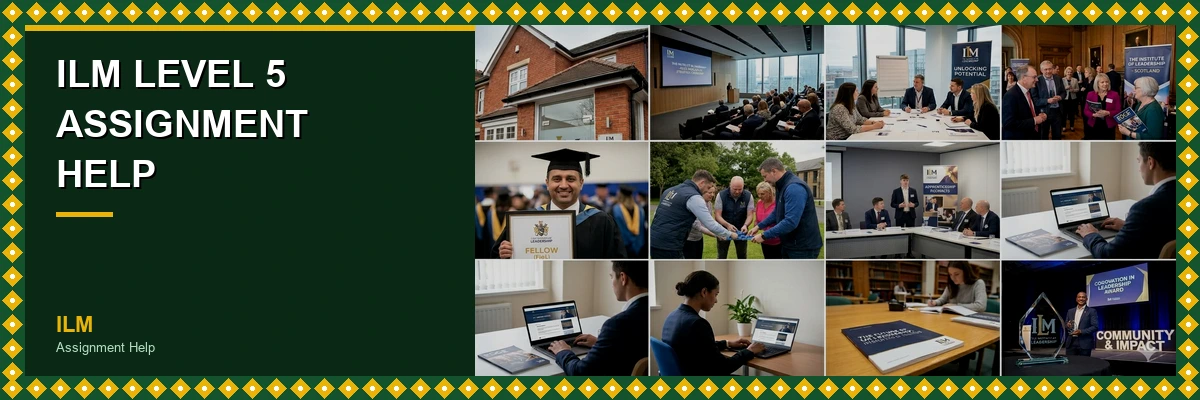
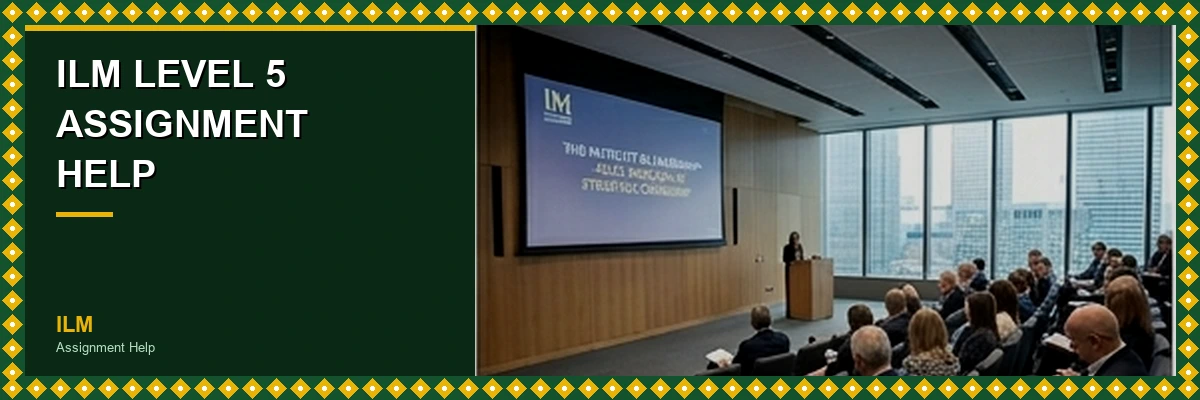
refactor(headers): regenerate 5 page headers using individual grid cells
Each header now uses a single, topic-matched cell from the ILM input
collage rather than a horizontal slice of the full image:
  hub        → r0c2 group meeting with Unlocking Potential banner
  level-3    → r1c1 ILM branded outdoor team activity
  level-5    → r0c1 large formal conference/presentation room
  level-7    → r2c3 ILM Leadership Award ceremony
  coaching   → r2c2 library study with ILM book

diff --git a/generate_headers_photo.py b/generate_headers_photo.py
@@ -1,6 +1,23 @@
 """
 generate_headers_photo.py — ILM Assignment Help new-page header images
-Produces 1200x400 WebP headers using the ILM input photo collage as background.
+Produces 1200x400 WebP headers using individually selected cells from the
+ILM input photo grid (4 cols x 3 rows).  Each page gets one cell chosen
+for relevance to the page topic.
+
+Grid cell reference (row, col) — 0-indexed:
+  r0c0  ILM building exterior
+  r0c1  Large formal conference/presentation  → Level 5
+  r0c2  Group meeting, "Unlocking Potential"  → Hub
+  r0c3  ILM Scotland networking evening
+  r1c0  Graduate holding FELLOW certificate
+  r1c1  ILM outdoor team activity             → Level 3
+  r1c2  ILM Apprenticeship presentation
+  r1c3  Professional man on laptop
+  r2c0  Professional man on laptop (wide)
+  r2c1  Woman working on laptop at home desk
+  r2c2  Library study, ILM book               → Coaching & Mentoring
+  r2c3  Leadership Award ceremony             → Level 7
+
 Brand: deep forest green #14532D + gold #EAB308
 """
 
@@ -8,6 +25,10 @@ from PIL import Image, ImageDraw, ImageFont, ImageEnhance
 import os
 
 INPUT_PHOTO = r"C:\Users\jobmu\agentic-workflow\semantic-seo-workflow\client_data\New-sites\ilm-assignment-help\input image\Gemini_Generated_Image_rog8iwrog8iwrog8.png"
+
+# Grid layout of the input collage
+GRID_COLS = 4
+GRID_ROWS = 3
 
 CLIENT = {
     "brand":      (20,  83,  45),
@@ -18,33 +39,44 @@ CLIENT = {
     "output_dir": r"C:\Users\jobmu\my-second-projects\ilm-assignment-help\public",
 }
 
-# Five different horizontal crop offsets so each header shows a different
-# section of the collage (image is 1408px wide; crop window is 768px wide)
+# cell_row / cell_col select which grid cell to use as the photo.
+# crop_y_frac (0.0–1.0) shifts the vertical crop within the cell:
+#   0.0 = top-aligned, 0.5 = centred, 1.0 = bottom-aligned.
 PAGES = [
     {
-        "slug":    "header_ilm-assignment-help",
-        "title":   "ILM\nASSIGNMENT\nHELP",
-        "crop_x":  0,
+        "slug":       "header_ilm-assignment-help",
+        "title":      "ILM\nASSIGNMENT\nHELP",
+        "cell_row":   0,
+        "cell_col":   2,   # group meeting with "Unlocking Potential" banner
+        "crop_y_frac": 0.3,
     },
     {
-        "slug":    "header_ilm-level-3-assignment-help",
-        "title":   "ILM LEVEL 3\nASSIGNMENT\nHELP",
-        "crop_x":  160,
+        "slug":       "header_ilm-level-3-assignment-help",
+        "title":      "ILM LEVEL 3\nASSIGNMENT\nHELP",
+        "cell_row":   1,
+        "cell_col":   1,   # ILM branded outdoor team activity — team leaders
+        "crop_y_frac": 0.4,
     },
     {
-        "slug":    "header_ilm-level-5-assignment-help",
-        "title":   "ILM LEVEL 5\nASSIGNMENT\nHELP",
-        "crop_x":  320,
+        "slug":       "header_ilm-level-5-assignment-help",
+        "title":      "ILM LEVEL 5\nASSIGNMENT\nHELP",
+        "cell_row":   0,
+        "cell_col":   1,   # large formal conference / presentation room
+        "crop_y_frac": 0.3,
     },
     {
-        "slug":    "header_ilm-level-7-assignment-help",
-        "title":   "ILM LEVEL 7\nASSIGNMENT\nHELP",
-        "crop_x":  480,
+        "slug":       "header_ilm-level-7-assignment-help",
+        "title":      "ILM LEVEL 7\nASSIGNMENT\nHELP",
+        "cell_row":   2,
+        "cell_col":   3,   # ILM Leadership Award ceremony — senior leader on stage
+        "crop_y_frac": 0.2,
     },
     {
-        "slug":    "header_ilm-coaching-mentoring-assignment-help",
-        "title":   "ILM COACHING\n& MENTORING\nASSIGNMENT HELP",
-        "crop_x":  640,
+        "slug":       "header_ilm-coaching-mentoring-assignment-help",
+        "title":      "ILM COACHING\n& MENTORING\nASSIGNMENT HELP",
+        "cell_row":   2,
+        "cell_col":   2,   # library study scene with ILM book
+        "crop_y_frac": 0.4,
     },
 ]
 
@@ -102,22 +134,49 @@ def panel_gradient(draw, px, py, pw, ph):
         draw.rectangle([(x, py), (x + 1, py + ph)], fill=(10, 40, 20, alpha))
 
 
-def place_photo(canvas, photo, crop_x, dest_x, dest_y, dest_w, dest_h):
-    """Crop a dest_w:dest_h section from photo at crop_x, paste onto canvas."""
+def extract_cell(photo, grid_cols, grid_rows, cell_col, cell_row):
+    """Return a single grid cell from the collage image."""
     pw, ph = photo.size
-    # Window in the source image that matches the dest aspect ratio
-    win_w = int(ph * dest_w / dest_h)
-    win_w = min(win_w, pw)
-    crop_x = min(crop_x, pw - win_w)
-    section = photo.crop((crop_x, 0, crop_x + win_w, ph))
-    section = section.resize((dest_w, dest_h), Image.LANCZOS)
+    cw = pw // grid_cols
+    ch = ph // grid_rows
+    x1 = cell_col * cw
+    y1 = cell_row * ch
+    return photo.crop((x1, y1, x1 + cw, y1 + ch))
+
+
+def place_cell(canvas, cell, crop_y_frac, dest_x, dest_y, dest_w, dest_h):
+    """
+    Scale the cell to fill dest_w (panel width), then crop vertically.
+    crop_y_frac controls which part of the cell is kept:
+      0.0 = top, 0.5 = centre, 1.0 = bottom.
+    """
+    cw, ch = cell.size
+    # Scale so the cell fills the destination width
+    scale = dest_w / cw
+    scaled_w = dest_w
+    scaled_h = int(ch * scale)
+
+    if scaled_h < dest_h:
+        # Cell too short even at full width — scale by height instead
+        scale = dest_h / ch
+        scaled_w = int(cw * scale)
+        scaled_h = dest_h
+
+    section = cell.resize((scaled_w, scaled_h), Image.LANCZOS)
+
+    # Vertical crop
+    excess_h = scaled_h - dest_h
+    y_off = int(excess_h * crop_y_frac)
+    section = section.crop((0, y_off, dest_w, y_off + dest_h))
+
     section = ImageEnhance.Brightness(section).enhance(0.82)
     section = ImageEnhance.Contrast(section).enhance(1.08)
-    # Convert RGBA to RGB so paste works cleanly
+
     if section.mode == "RGBA":
         bg = Image.new("RGB", section.size, (14, 58, 30))
         bg.paste(section, mask=section.split()[3])
         section = bg
+
     canvas.paste(section, (dest_x, dest_y))
 
 
@@ -133,11 +192,14 @@ def generate(photo, page, client):
 
     canvas = Image.new("RGB", (W, H), brand)
 
-    # Photo fills the right panel area
+    # Extract the selected grid cell and place it in the right panel
+    cell = extract_cell(photo, GRID_COLS, GRID_ROWS,
+                        page["cell_col"], page["cell_row"])
     photo_x = inner_x + PANEL_W
     photo_w = inner_w - PANEL_W
     photo_h = inner_h
-    place_photo(canvas, photo, page["crop_x"], photo_x, inner_y, photo_w, photo_h)
+    place_cell(canvas, cell, page.get("crop_y_frac", 0.3),
+               photo_x, inner_y, photo_w, photo_h)
 
     # Dark text panel (left side)
     draw = ImageDraw.Draw(canvas, "RGBA")
@@ -186,11 +248,13 @@ def generate(photo, page, client):
 
 
 if __name__ == "__main__":
-    print("Loading input photo...")
+    print("Loading input collage...")
     photo = Image.open(INPUT_PHOTO).convert("RGBA")
-    print(f"  Size: {photo.size}")
+    cw, ch = photo.size[0] // GRID_COLS, photo.size[1] // GRID_ROWS
+    print(f"  Collage: {photo.size}  |  Cell size: {cw}x{ch}")
 
     print(f"\nGenerating {len(PAGES)} header images...\n")
     for page in PAGES:
+        print(f"  {page['slug']}  (cell r{page['cell_row']}c{page['cell_col']})")
         generate(photo, page, CLIENT)
     print(f"\nDone -> {CLIENT['output_dir']}")
